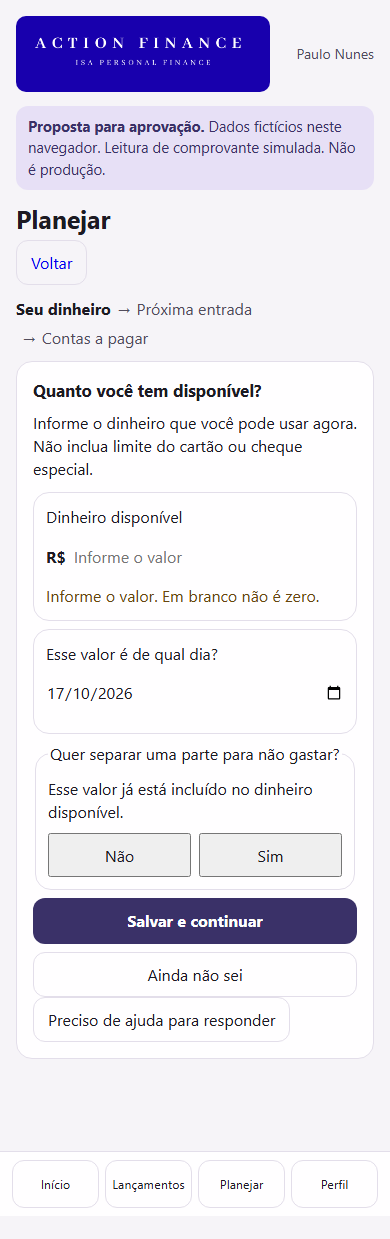
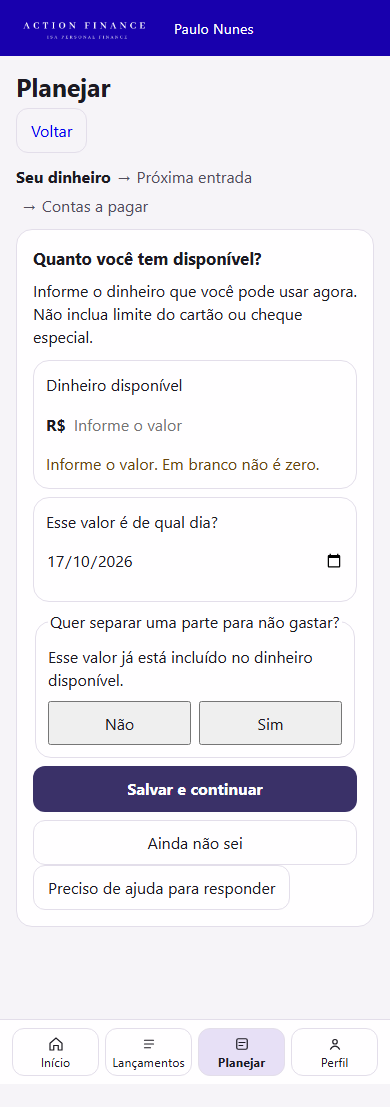
Record the published ISA 0.6.3 home.
The served image is isa-web:12. The first image of this delivery did not publish the home script.

diff --git a/isa/documents/ISA_REV_INICIO_FINANCEIRO_004IA3.md b/isa/documents/ISA_REV_INICIO_FINANCEIRO_004IA3.md
@@ -1,0 +1,43 @@
+# ISA 0.6.3 — Início financeiro
+
+17/10/2026. Código `f3dbd5d55369d6cb141d3d2b867fc5a406e7f30d` e correção `013dd06f91127371655c2fb3aafec9cba8de37d3`. A imagem servida é a segunda.
+
+## O que a pessoa encontra
+
+O Início responde, com o que já estiver salvo:
+
+- Quanto tenho: o disponível informado, com a data e a parte protegida dentro desse valor. Se a data não é a de hoje, o número não vira saldo atual. Uma projeção para a data de referência, quando existe e difere do informado, aparece com esse nome.
+- Quanto falta pagar: a soma do que resta nos compromissos do planejamento, no período dito na própria frase. Sem entrada confirmada, o período é os próximos 30 dias. Vencidos entram uma vez, como parte dessa soma. Conta sem valor ou data fica contada à parte, fora da soma.
+- Quando recebo: a próxima entrada confirmada, com valor, data e contagem de dias. Entrada incerta aparece como incerta e não sustenta a frase principal.
+- O dinheiro chega: uma frase. Falta de dinheiro usa a primeira data em que o saldo fica negativo. Se o menor valor do período cai em outro dia, esse dia é dito à parte. Uso da reserva não é chamado de saldo negativo. Se os compromissos informados cabem, a frase diz até quando e mostra a margem. Se ainda não dá para calcular, a frase aponta o que falta e o restante da tela continua.
+- Quanto cabe gastar: a margem do motor, com o período. Sem cálculo, a tela diz que ainda não foi calculado. Zero de margem só aparece quando o cálculo mostra que não há folga.
+
+A barra é azul `#1800ad`, a cor lida no fundo de `images/logoisantrans.png`. O logo continua o arquivo opaco, sem borda nem placa. No desktop, a mesma barra leva a Início, Lançamentos, Planejar, Perfil e Registrar. No celular, a barra fica com a marca e a navegação principal vai para a base, com ícone e nome. Sair continua no Perfil. Importar extrato segue em Início e em Lançamentos.
+
+O gráfico só aparece quando a trajetória está completa. O calendário marca entrada, saída e alerta com texto, além da cor. Escolher um dia não muda vencimento nem chama a IA. Embaixo, o mês de lançamentos continua sendo ganhos recebidos, gastos pagos e resultado. Não é o disponível nem a projeção.
+
+Um aviso de encargo mostra o valor em reais, a base e a data. Sem condição registrada, a frase é: ainda não sei os encargos desse atraso. A leitura por IA só começa em **Pedir a leitura de hoje**. Abrir o Início não grava conta, movimento nem chamada.
+
+Para completar o que falta, o cartão abre a etapa correspondente do planejamento. Depois de salvar, a pessoa volta ao Início. A jornada **Salvar e continuar**, sem esse retorno, segue para a etapa seguinte.
+
+## De onde vêm os números
+
+O disponível informado é a disponibilidade ativa. O que falta pagar soma `remaining_cents` dos compromissos do planejamento dentro do período; a cobertura escrita na tela é “Compromissos do planejamento”. Lançamentos do extrato não entram nessa soma. Reserva não é somada de novo. A situação, a margem, a próxima entrada confirmada e a série do gráfico vêm do motor já existente: a primeira falta é `first_insufficiency`; o mínimo é outro campo e só entra na frase quando a data é outra. Encargos usam somente condições gravadas no compromisso, em centavos, com arredondamento half-up. Juros simples só entram com taxa, período e regime registrados. Fatura só é chamada de fatura quando o registro traz `kind` igual a fatura. Não há módulo de cartão.
+
+Não houve migration. O schema continua 4.
+
+## Verificação
+
+Laboratório, base temporária, Paulo e Marina sintéticos. Não é a conta publicada.
+
+A conta vazia não mostra zero no disponível. A conta parcial grava 1.500,00 em 16/10/2026, com 200,00 protegidos, e volta ao Início. A conta com falta mostra R$ 300,00 em 18/10/2026, a soma de R$ 2.890,00 até a entrada de 05/11/2026, e o encargo do condomínio: multa R$ 20,00, juros R$ 10,00, encargos R$ 30,00, total estimado R$ 1.030,00, para pagamento em 16/10/2026. A internet vencida, sem condições, permanece como encargo desconhecido. Marina, com dinheiro suficiente, não vê os compromissos de Paulo. Abrir o Início não criou leitura de IA. A jornada de 0.6.2 foi refeita no mesmo laboratório: o formulário abre, o servidor confirma antes de avançar, e a ajuda grande não cobre os campos.
+
+Capturas em `documents/reviews/inicio-004ia3/`: incompleto e preenchido em 1280 px, falta em 1280 e 390 px, conta suficiente em 1280 e 390 px, e o retorno parcial em 390 px. A barra medida no navegador é `rgb(24, 0, 173)`, igual à amostra do arquivo. No viewport de 640 px, equivalente à largura útil de 200% numa janela de 1280 px, a página fica em uma coluna e sem rolagem horizontal. O comando de zoom do navegador em si não foi acionado. Em 390 px, a ação principal pôde ser levada para cima do menu inferior.
+
+No host público, `/api/health` respondeu `isa-piloto 0.6.3`, `/api/ready` respondeu schema 4 e `/api/workspace` sem sessão respondeu 401. `home.js` respondeu 200 e contém o Início. Task `isa-web:12`, uma implantação concluída, uma tarefa em execução. A imagem é `sha256:d01e7d1843e2bb6ed2fd38b5197a1d280f3ffa7afa0396f9d43b66955eb3c20b`. O manifesto linux/amd64 é `sha256:ee1dd7bf83201c92067bd047f30190f5038e6970ff7c8190b336849c2b1b6cc1`.
+
+A primeira imagem desta entrega, task `isa-web:11`, não publicava `home.js`. Foi substituída antes deste relato. O retorno da aplicação é `isa-web:10`, versão 0.6.2. O Finance permanece em `actionfinance-web:27`. O ingresso continua o `paneldx-alb` existente. Banco, Cognito, permissões de IA e cópia diária não foram alterados.
+
+## Limite
+
+Não houve sessão autenticada na conta publicada, e a conta real não foi preenchida para obter captura. Isto não é aceite do proprietário. Compromisso vencido antes da data do disponível informado continua na soma a pagar e no calendário, e não é descontado de novo da trajetória. A tela de entrada do provedor não foi reestilizada. Gestão de cartão, rotativo e parcelamento não foram implementados.

diff --git a/isa/documents/ISA_CONTINUIDADE_PRODUCAO.md b/isa/documents/ISA_CONTINUIDADE_PRODUCAO.md
@@ -9,4 +9,4 @@ Diretriz expressa do proprietário em 17/10/2026: o piloto recebe informações 
 - Manter cópia anterior a migrações, recuperação verificável e retorno da aplicação compatível com os dados. Um retorno de versão não deve apagar registros recebidos depois da publicação.
 - Exclusão solicitada pelo titular e regras explícitas de retenção continuam respeitadas; continuidade não é autorização para impedir a exclusão.
 
-A alteração visual 0.6.1 e a jornada de planejamento 0.6.2 usam o mesmo banco, schema 4, identidades e serviço. Nenhuma das duas contém migration nem escrita em dados financeiros de produção. Esta diretriz não equivale a garantia de ausência absoluta de interrupções; mudanças futuras devem preservar a continuidade funcional e os dados.
+A alteração visual 0.6.1, a jornada de planejamento 0.6.2 e o Início 0.6.3 usam o mesmo banco, schema 4, identidades e serviço. Nenhuma delas contém migration nem escrita em dados financeiros de produção. Esta diretriz não equivale a garantia de ausência absoluta de interrupções; mudanças futuras devem preservar a continuidade funcional e os dados.
